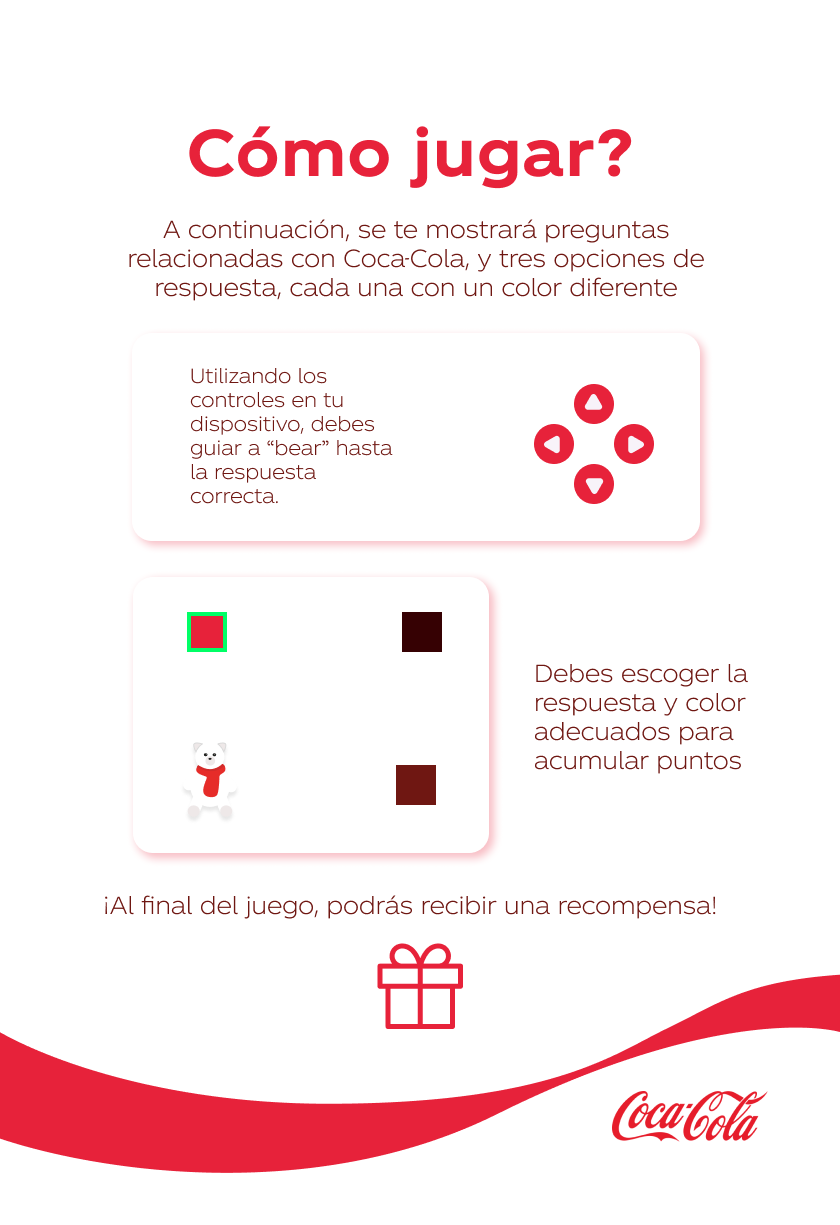
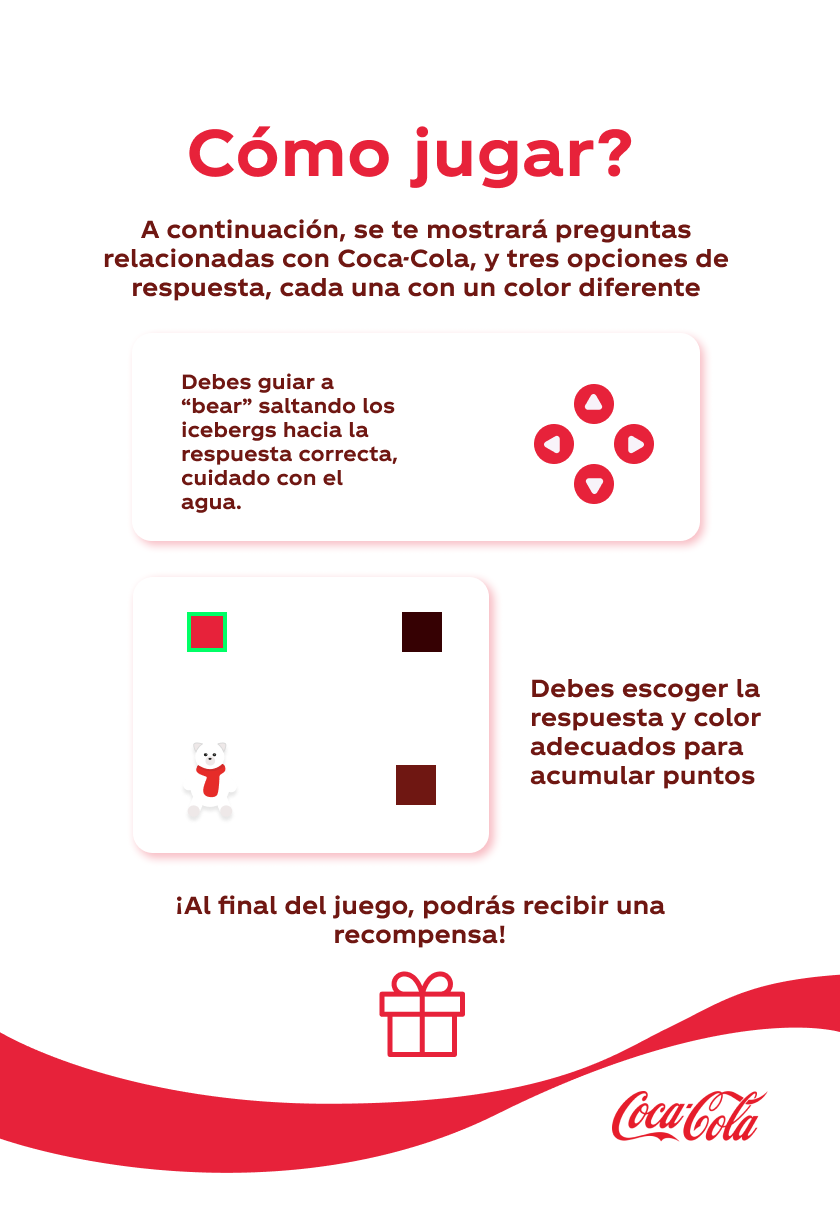
listo

diff --git a/server-practice/public-mupi/sketch.js b/server-practice/public-mupi/sketch.js
@@ -1,17 +1,17 @@
 class Level {
-    constructor(size, mapTiles, rightAnswer, answ2, answ3) {
+    constructor(size, mapTiles, rightAnswer, answ2, answ3, water) {
         this.level = [
             [1, 1, 1, 1, 1, 1, 1, 1, 1, 1, 1],
             [1, 1, 1, 1, 1, 1, 1, 1, 1, 1, 1],
             [1, 1, 1, 1, 1, 1, 1, 1, 1, 1, 1],
             [1, 0, 2, 0, 1, 1, 1, 0, 3, 0, 1],
-            [1, 0, 1, 0, 1, 1, 1, 0, 1, 0, 1],
-            [1, 0, 0, 0, 0, 0, 0, 0, 0, 0, 1],
-            [1, 0, 1, 0, 1, 1, 1, 0, 1, 0, 1],
-            [1, 0, 0, 0, 0, 0, 0, 0, 0, 0, 1],
-            [1, 1, 1, 0, 1, 0, 1, 0, 1, 1, 1],
+            [1, 5, 1, 5, 1, 1, 1, 5, 1, 5, 1],
+            [1, 0, 5, 0, 5, 0, 5, 0, 5, 0, 1],
+            [1, 5, 1, 5, 1, 1, 1, 5, 1, 5, 1],
+            [1, 0, 5, 0, 5, 0, 5, 0, 5, 0, 1],
+            [1, 1, 1, 5, 1, 0, 1, 5, 1, 1, 1],
             [1, 1, 1, 0, 1, 1, 1, 0, 1, 1, 1],
-            [1, 1, 1, 0, 0, 4, 0, 0, 1, 1, 1],
+            [1, 1, 1, 5, 0, 4, 0, 5, 1, 1, 1],
             [1, 1, 1, 1, 1, 1, 1, 1, 1, 1, 1],
             [1, 1, 1, 1, 1, 1, 1, 1, 1, 1, 1],
             [1, 1, 1, 1, 1, 1, 1, 1, 1, 1, 1],
@@ -22,6 +22,7 @@ class Level {
         this.rightAnswer = rightAnswer;
         this.answ2 = answ2;
         this.answ3 = answ3;
+        this.water = water;
     }
 
     show() {
@@ -35,7 +36,10 @@ class Level {
                     image(this.answ2, (j * this.size) + 27, (i * this.size));
                 } else if (this.level[i][j] === 4) {
                     image(this.answ3, (j * this.size) + 27, (i * this.size));
-                } else {
+                } else if(this.level[i][j] === 5){
+                    image(this.water, (j * this.size) + 27, (i * this.size));
+                }
+                else {
                     noStroke();
                 }
                 fill(255, 0);
@@ -58,7 +62,7 @@ class Level {
         let result = null;
         if (this.level[pcCol][pcFil] === 2) {
             result = true;
-        } else if (this.level[pcCol][pcFil] !== 0 && this.level[pcCol][pcFil] !== 2) {
+        } else if (this.level[pcCol][pcFil] !== 0 && this.level[pcCol][pcFil] !== 2 && this.level[pcCol][pcFil] !== 5) {
             result = false;
         }
         return result;
@@ -124,6 +128,7 @@ let tiles;
 let rightColor;
 let color2;
 let color3;
+let water;
 let screen0;
 let screen1;
 let screen2;
@@ -154,6 +159,7 @@ function setup() {
     rightColor = loadImage('images/answer1.png');
     color2 = loadImage('images/answer2.png');
     color3 = loadImage('images/answer3.png');
+    water = loadImage('images/water.png');
     pjImage = loadImage('images/Bear.png');
     screen0 = loadImage('images/mupi1.png');
     screen1 = loadImage('images/mupi2.png');
@@ -163,7 +169,7 @@ function setup() {
     winImage = loadImage('images/win.png');
     loseImage = loadImage('images/lose.png');
 
-    map = new Level(mapSize, tiles, rightColor, color2, color3);
+    map = new Level(mapSize, tiles, rightColor, color2, color3, water);
     pj = new Player(pjImage, pjFil, pjCol, map);
 
 }
@@ -174,10 +180,10 @@ function draw() {
 
     switch (screen) {
         case 0:
-            image(screen0, 0, 0, 400, 720);
+            image(screen0, 0, 0, 400, 700);
             break;
         case 1:
-            image(screen1, 0, 0, 493.71, 720);
+            image(screen1, 0, 0, 493.71, 700);
             break;
         case 2:
             image(screen2, 0, 0);
@@ -197,14 +203,14 @@ function draw() {
             break;
 
         case 3:
-            image(screen3, 0, 0, 493.71, 720);
+            image(screen3, 0, 0, 493.71, 700);
             break;
 
         case 4:
-            image(winImage, 0, 0, 493.71, 720);
+            image(winImage, 0, 0, 493.71, 700);
             break;
         case 5:
-            image(loseImage, 0, 0, 493.71, 720);
+            image(loseImage, 0, 0, 493.71, 700);
             break;
     }
 

diff --git a/server-practice/public-mobile/sketch.js b/server-practice/public-mobile/sketch.js
@@ -64,7 +64,7 @@ let cocacola;
 let userdata = {name: undefined, lastName: undefined, phone: undefined};
 
 function setup() {
-    frameRate(12);
+    frameRate(1);
     canvas = createCanvas(windowWidth, windowHeight);
     canvas.style('z-index', '-1');
     canvas.style('position', 'fixed');
